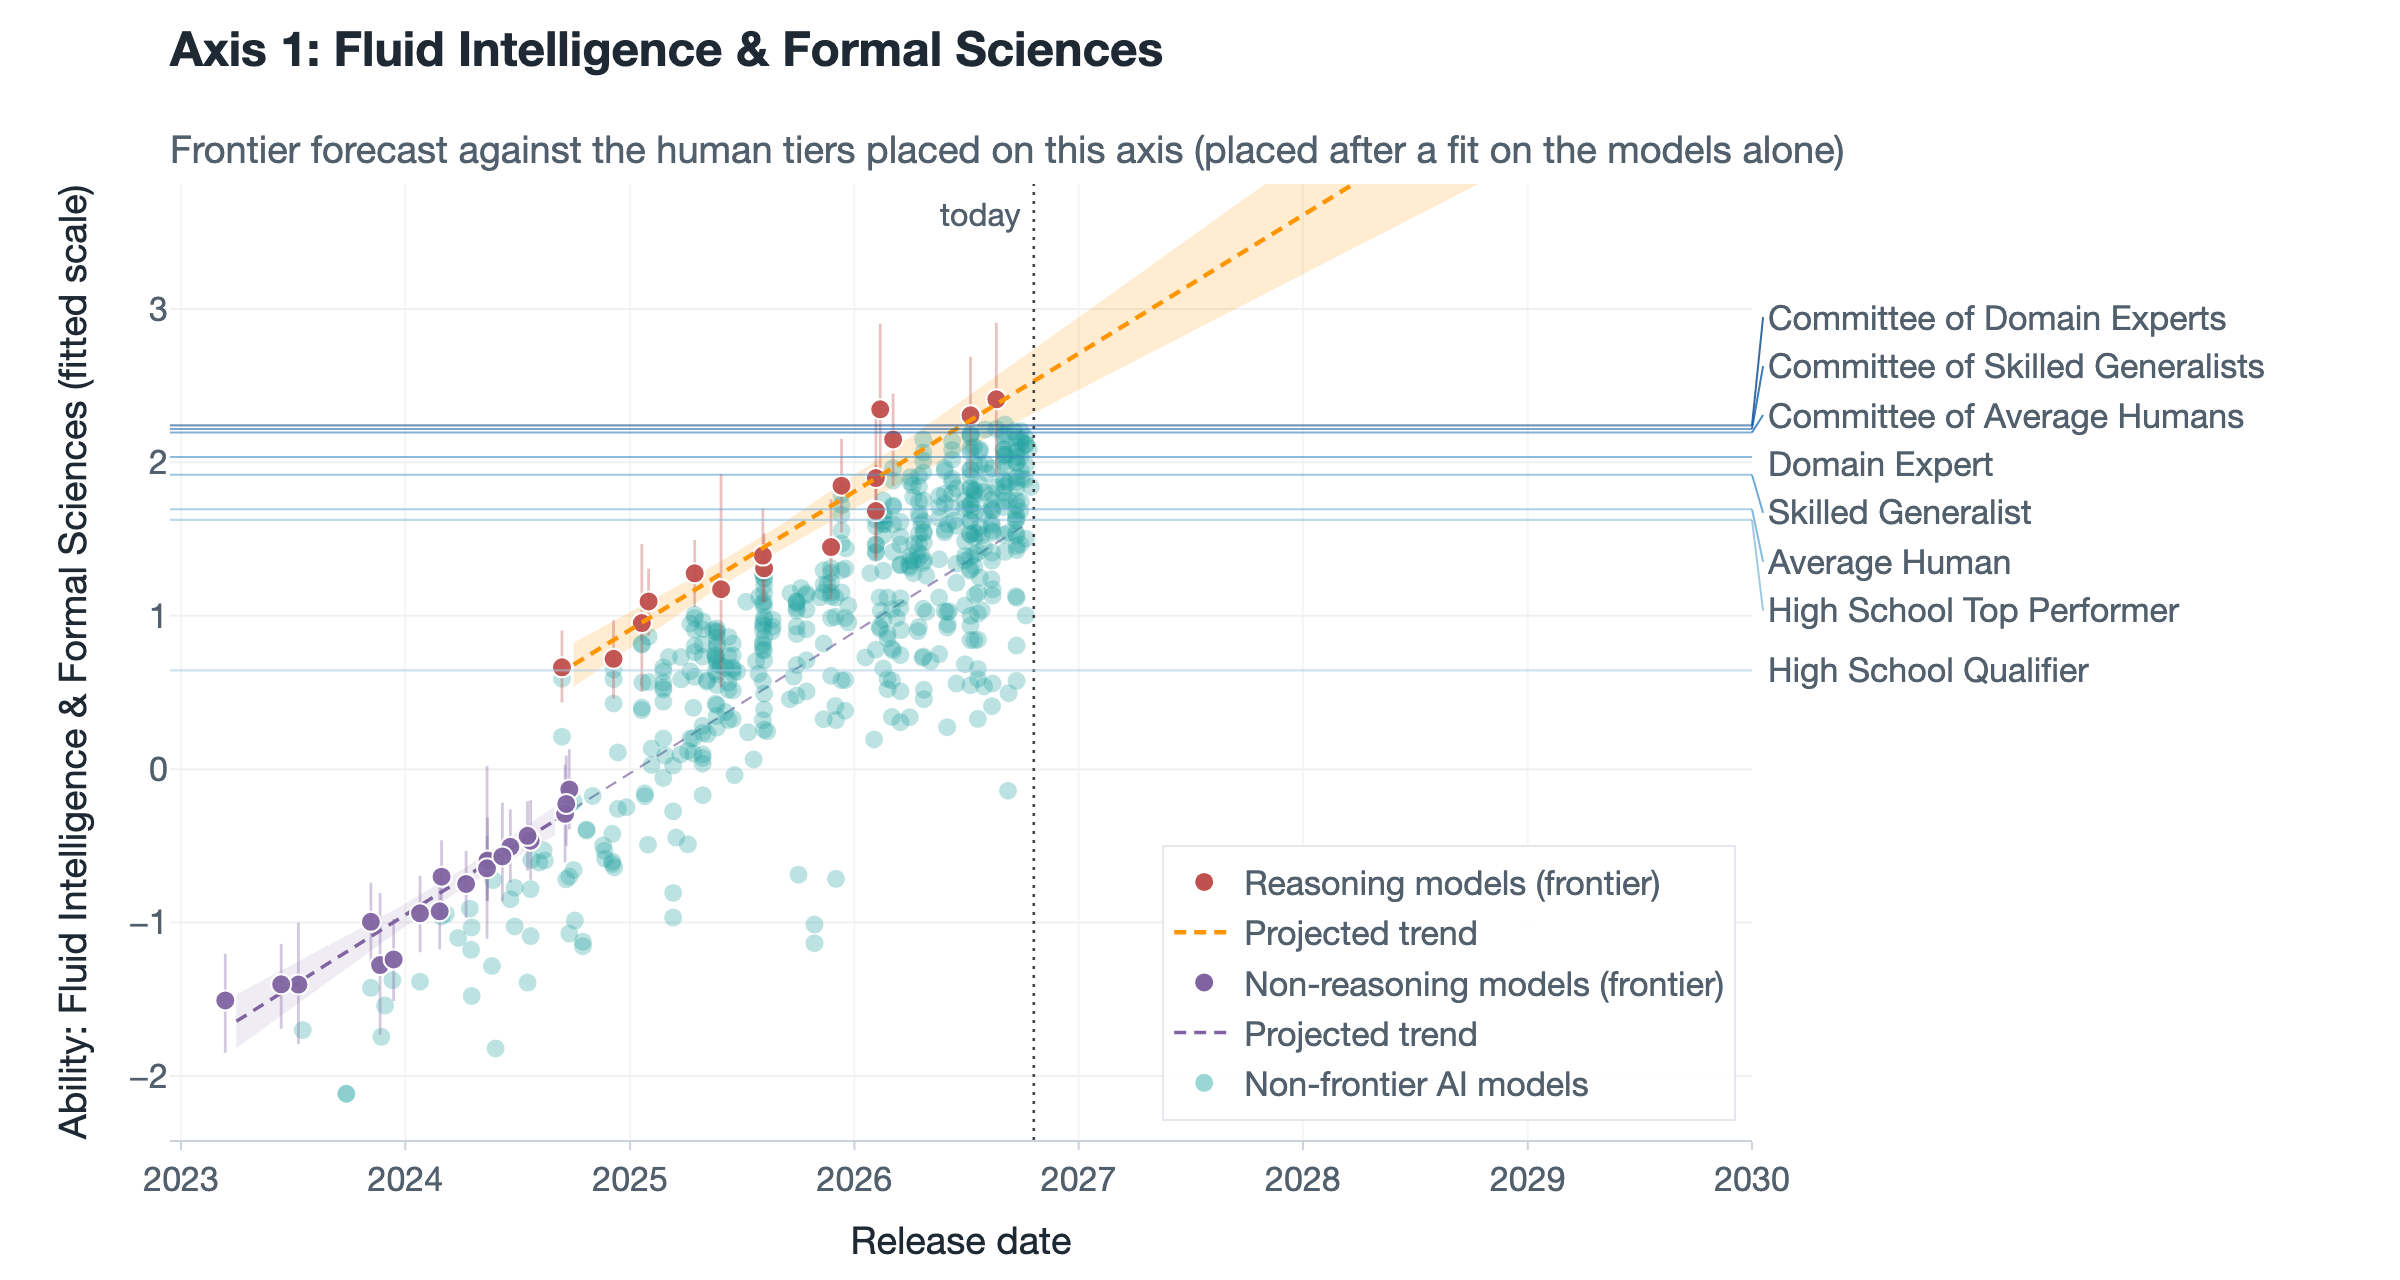
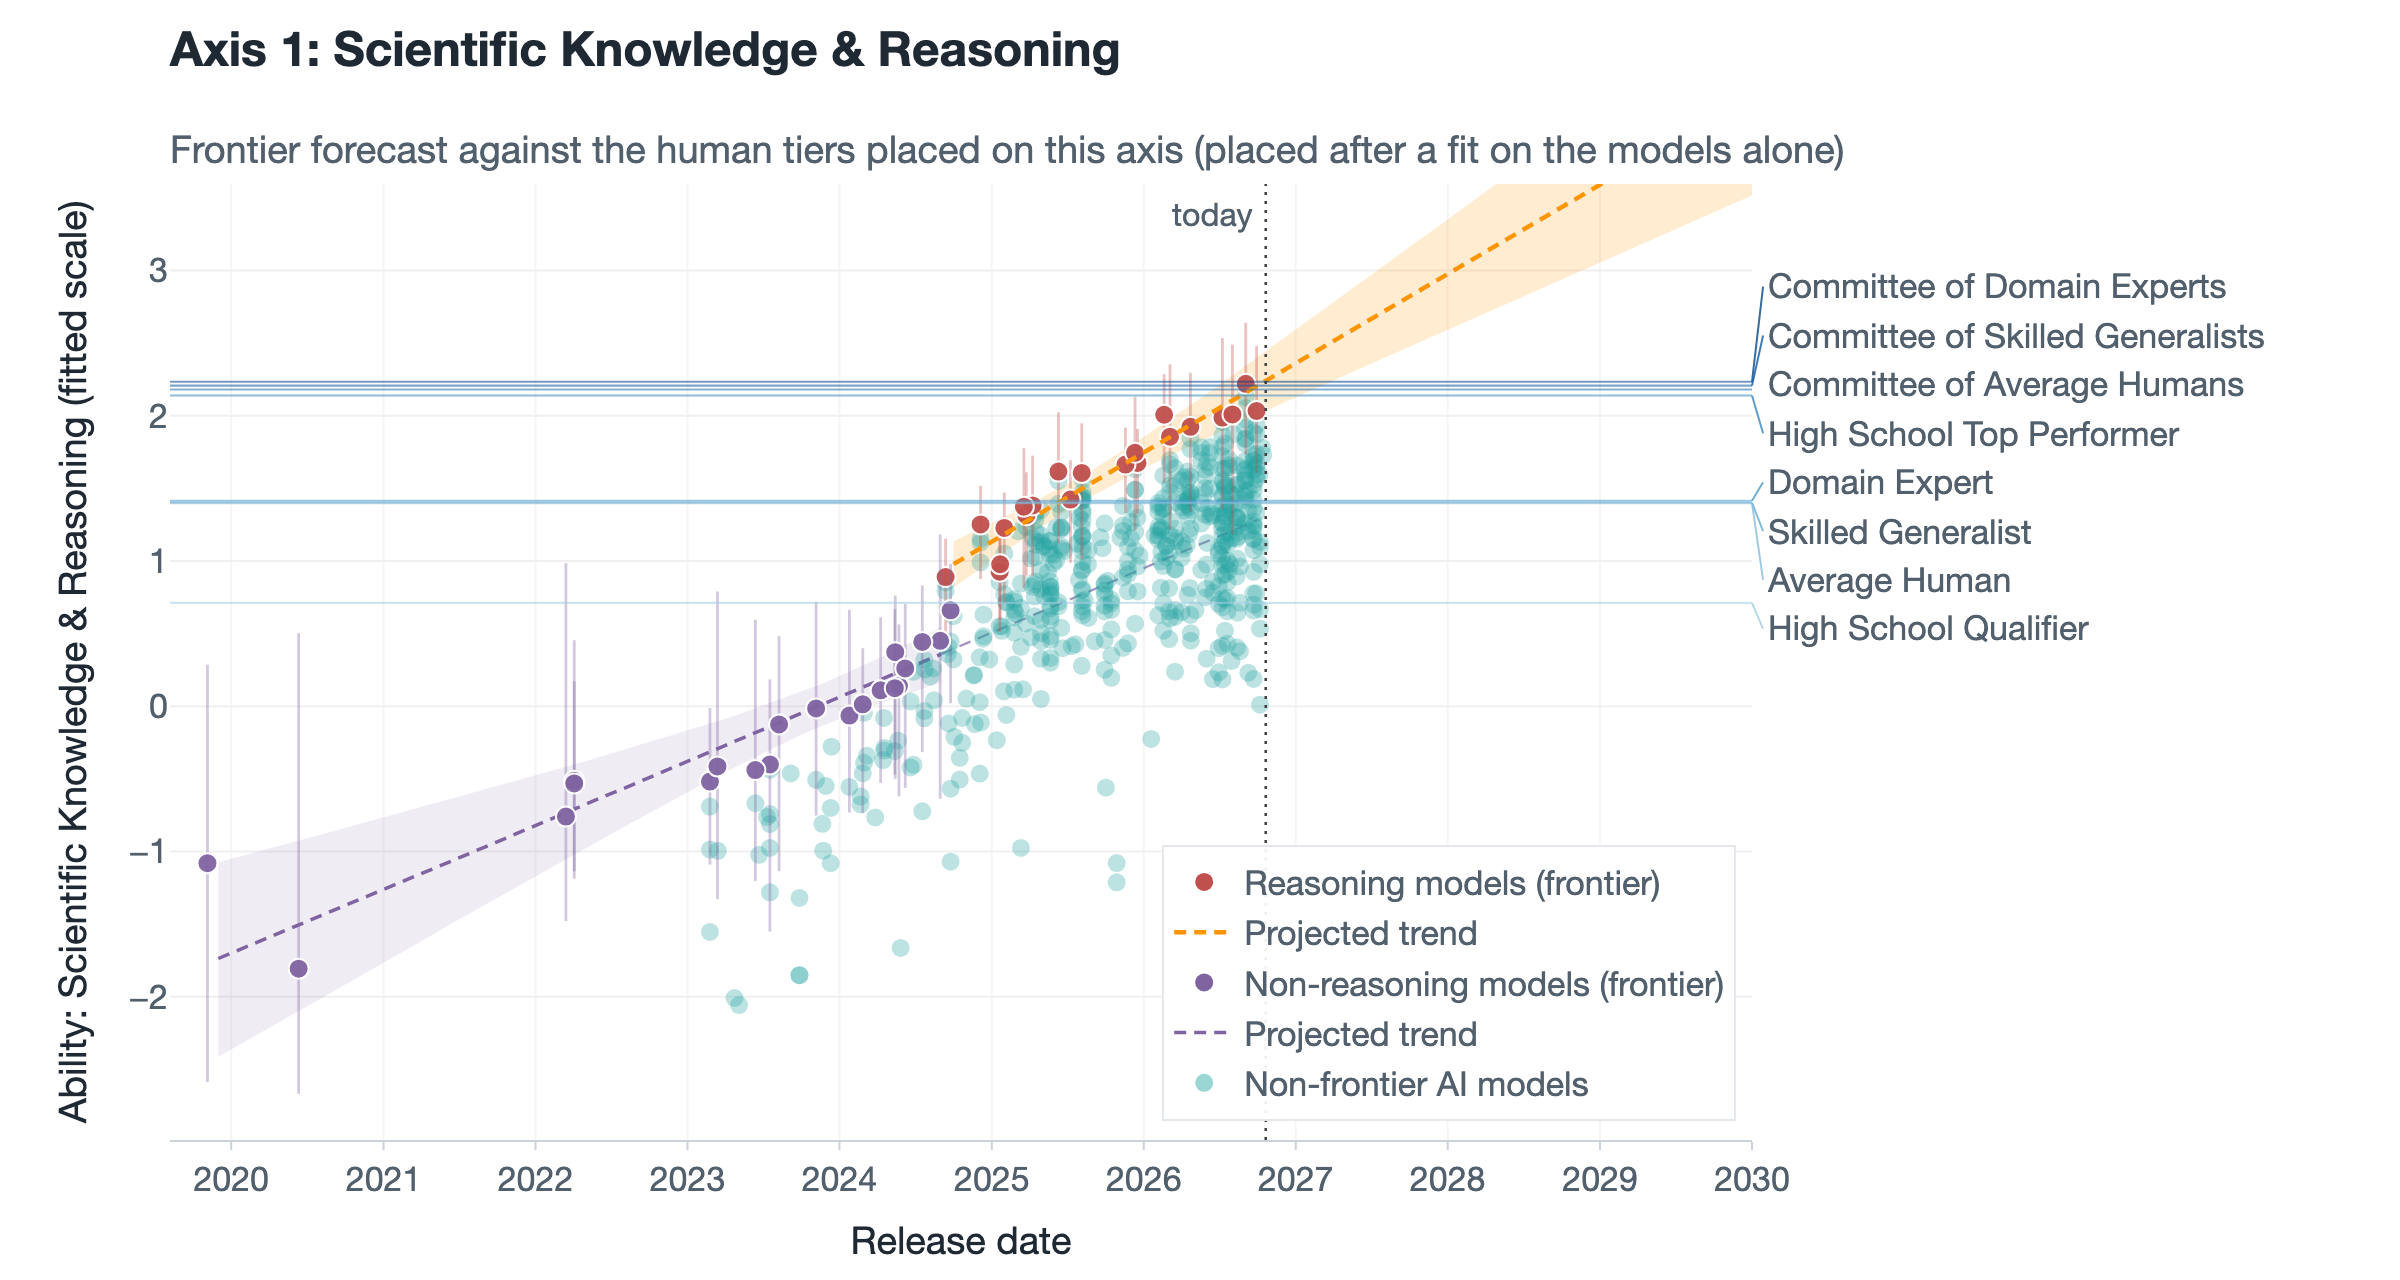
README: the ceiling flagship's results (axes, modes, human scores per axis, figures)

diff --git a/README.md b/README.md
@@ -12,28 +12,28 @@ This repository rebuilds the index in PyMC as a **K-axis compensatory 2PL Beta-M
 
 ## Current results: the K=4 flagship on the 2026-10-19 build
 
-**Since 2026-10-21 the flagship estimates each benchmark's ceiling** (see [Method](#method)). Its first 10 chains are in `5_outputs/data20261019/mirt_lineageprior_lineagebm/`. They fall into two modes: A, the primary mode the deliverables read (8 chains, best log-density; agentic and cyber apart, no science axis), and B, a secondary mode 23.8 nats lower (chains 3 and 9) with the previous flagship's structure (agentic and cyber together, a science axis), drawn on a frame and under names of its own (`secondary_mode/`); held-out prediction does not separate them (integrated LOO, +3 ± 8 nats for A). Mode A's axes are named (user, 2026-10-21): Scientific Knowledge & Reasoning, Agentic Capabilities & Programming, Cyber Capabilities, Commonsense & Factual Knowledge. A second seed (43) is running to bring the fit to the usual 20 chains. Until it is merged the results below are those of the same fit without ceilings, `mirt_lineageprior_lineagebm_noceiling/`; the comparison of the two is in the ceiling fit's `investigation/README.md`.
+**Since 2026-10-21 the flagship estimates each benchmark's ceiling** (see [Method](#method)): `5_outputs/data20261019/mirt_lineageprior_lineagebm/`. The fit without ceilings, the flagship until then, stays beside it as `mirt_lineageprior_lineagebm_noceiling/`, and the comparison of the two is in the ceiling fit's `investigation/README.md`.
 
-The axes carry no names of their own. They are named by hand after the benchmarks that load most on them, in the fit folder's `axis_names.json`, and a refit keeps a name only while its signature benchmarks still define the axis (see [docs/plots.md](docs/plots.md)). The current flagship's four:
+The axes carry no names of their own. They are named by hand after the benchmarks most collinear with them (the largest share of their loading variance), in the fit folder's `axis_names.json`, and a refit keeps a name only while its signature benchmarks still define the axis (see [docs/plots.md](docs/plots.md)). The current flagship's four (user, 2026-10-21):
 
-1. **Fluid Intelligence & Formal Sciences** (OTIS Mock AIME, ARC-AGI-2, MATH Level 5, with CritPt, MCP Atlas, DeepSWE)
-2. **Agentic & Cyber Capabilities** (GDPval, MirrorCode, CyberGym, with GBAEval, CyScenarioBench, FrontierSWE v2, Cybench)
-3. **Scientific Knowledge & Reasoning** (MMLU Biology, GSM8K, GPQA Main Biology, with WMDP, DeepResearch Bench, MMLU-Pro Biology)
-4. **Visual & Commonsense** (GeoBench, VPCT, OpenBookQA, with SpireClimb, VisualToolBench, SimpleQA Verified)
+1. **Scientific Knowledge & Reasoning** (OTIS Mock AIME, MMLU Chemistry, MATH Level 5, GPQA Main Chemistry and Biology, with WMDP, ARC-AGI and VPCT)
+2. **Agentic Capabilities & Programming** (OSWorld, SWE Atlas, APEX-Agents, DeepSWE, with PostTrainBench, FrontierCode, MCP Atlas)
+3. **Cyber Capabilities** (CyScenarioBench, CyberGym, GBAEval, with AISI Cyber Ranges, EBR-bench, Cybench)
+4. **Commonsense & Factual Knowledge** (OpenBookQA, ARC AI2, SimpleQA Verified, with HellaSwag, PIQA, SimpleBench, WinoGrande)
 
-On the 2026-10-19 data the agentic benchmarks load with the cyber ones, which the refresh brought eight new series of, and a fourth axis gathers visual and commonsense benchmarks, most of them outside the canonical index; the previous flagship had separate agentic and cyber axes. The four axes are distinct: their largest correlation is 0.55 (axes 1 and 2). Each benchmark is assigned to the axes by the share of its loading variance, and the axes are tracked across posterior draws by the collinearity of their loading columns (see [Reading the results](#reading-the-results)).
+With ceilings, the flattening of top scores no longer needs an axis of its own: mathematics and abstract reasoning share an axis with scientific knowledge, agentic and cyber benchmarks split apart, and the commonsense and factual benchmarks form the fourth axis. The four axes are distinct: their largest correlation is 0.67 (axes 1 and 2). Each benchmark is assigned to the axes by the share of its loading variance, and the axes are tracked across posterior draws by the collinearity of their loading columns (see [Reading the results](#reading-the-results)).
 
-The fit has 20 chains in two posterior modes (see [Limitations](#limitations)). The figures, the dashboard and the forecasts read mode A, 17 chains with the best log-density (the modes file's `selected_chains`, read by `analysis.best_mode_chains`). Mode B (chains 0, 1 and 18, 8.7 nats lower) keeps the previous flagship's four axes, a separate agentic axis among them, and is drawn beside it on a frame and under names of its own (`secondary_mode/`).
+The fit has 10 chains so far in two posterior modes; a second seed (43) is running to bring it to the usual 20 (see [Limitations](#limitations)). The figures, the dashboard and the forecasts read mode A, 8 chains with the best log-density (the modes file's `selected_chains`, read by `analysis.best_mode_chains`). Mode B (chains 3 and 9, 23.8 nats lower) keeps the structure of the fit without ceilings (agentic and cyber together, a science axis and a visual axis) and is drawn beside it on a frame and under names of its own (`secondary_mode/`); held-out prediction does not separate the two (integrated LOO, +3 ± 8 nats for A).
 
-Per axis, the frontier releases of reasoning models (red) and of the others (purple) each get their own fitted line; the reasoning models' line is projected to 2030 (orange, 80% band) against the human tiers (horizontal lines) placed on that axis. Abilities are on the fitted scale (the models' mean at 0 on each axis). A tier is drawn only where its own scores place it, on benchmarks that measure the axis, so the agentic & cyber and visual axes carry few tiers: no human baseline exists for most of their benchmarks.
+Per axis, the frontier releases of reasoning models (red) and of the others (purple) each get their own fitted line; the reasoning models' line is projected to 2030 (orange, 80% band) against the human tiers (horizontal lines) placed on that axis. Abilities are on the fitted scale (the models' mean at 0 on each axis). A tier is drawn only where its own scores place it, on benchmarks that measure the axis, so the agentic and cyber axes carry few tiers: no human baseline exists for most of their benchmarks.
 
-<img src="docs/figures/forecast_axis1.png" width="760" alt="Axis 1, Fluid Intelligence and Formal Sciences: frontier forecast against the human tiers placed on it, one line for reasoning models and one for the others">
+<img src="docs/figures/forecast_axis1.png" width="760" alt="Axis 1, Scientific Knowledge and Reasoning: frontier forecast against the human tiers placed on it, one line for reasoning models and one for the others">
 
-<img src="docs/figures/forecast_axis2.png" width="760" alt="Axis 2, Agentic and Cyber Capabilities: frontier forecast against the human tiers placed on it">
+<img src="docs/figures/forecast_axis2.png" width="760" alt="Axis 2, Agentic Capabilities and Programming: frontier forecast against the human tiers placed on it">
 
-<img src="docs/figures/forecast_axis3.png" width="760" alt="Axis 3, Scientific Knowledge and Reasoning: frontier forecast against the human tiers placed on it">
+<img src="docs/figures/forecast_axis3.png" width="760" alt="Axis 3, Cyber Capabilities: frontier forecast against the human tiers placed on it">
 
-<img src="docs/figures/forecast_axis4.png" width="760" alt="Axis 4, Visual and Commonsense: frontier forecast against the human tiers placed on it">
+<img src="docs/figures/forecast_axis4.png" width="760" alt="Axis 4, Commonsense and Factual Knowledge: frontier forecast against the human tiers placed on it">
 
 The 20 benchmarks with the largest share of each axis, their loadings (median and 95% interval) and that share:
 
@@ -41,7 +41,7 @@ The 20 benchmarks with the largest share of each axis, their loadings (median an
 
 `python docs/make_readme_figures.py` redraws these five figures from the current flagship trace, with the builders of the per-fit folders.
 
-The K=4 fit sees 5,487 observations, 887 models and 107 benchmarks, and the human tiers' 57 scores are placed on it afterwards; the canonical K=1 index, which also applies the curated exclusions and fits the tiers inside, 4,410 observations on 93 benchmarks. The post's fits saw 4,923 / 829 / 96 (tiers included) and 4,184 / 781 / 88.
+The K=4 fit sees 5,487 observations, 887 models and 107 benchmarks, and the human tiers' scores are placed on it afterwards (42 of them on the benchmarks that measure an axis); the canonical K=1 index, which also applies the curated exclusions and fits the tiers inside, 4,410 observations on 93 benchmarks. The post's fits saw 4,923 / 829 / 96 (tiers included) and 4,184 / 781 / 88.
 
 ## Setup
 
@@ -81,7 +81,7 @@ python 3_fit/fit.py --K 4 --lineage-prior --lineage-bm --chains 10 --seed 43 \
 
 Traces on disk keep every fifth draw (`--save-thin`, `config.SAVE_THIN`): convergence and the tables are computed on the full run, and the 16,000 saved draws pin every median and interval the figures show. While a nutpie fit runs, its draws stream to a zarr store beside the trace instead of accumulating in RAM (`--stream-draws`, on by default; `--no-stream-draws` restores the in-memory run), so the machine stays usable during a ten-hour fit; the store is deleted once the thinned trace is saved.
 
-Then find the posterior modes, place the human tiers, render the fit's figures (on the chains the deliverables read and, separately, the remaining ones when there are several modes; French versions under `fr/`, their SVG twins under `fr/svg/`), and rebuild the dashboard. The deliverables read the best mode by log-density, or the `selected_chains` of the modes file when it names a subset, checked against `4_diagnostics/integrated_loo.py` (the flagship's: chains 2, 5, 15, 17). `fit.py` writes the axis tables on every chain; `--write-tables` rewrites them on the chains the deliverables read, and `mirt_loadings.csv` among them is the frame every chain group's figures are put back on. A refit sets the old modes file aside, so a selection never outlives its chains:
+Then find the posterior modes, place the human tiers, render the fit's figures (on the chains the deliverables read and, separately, the remaining ones when there are several modes; French versions under `fr/`, their SVG twins under `fr/svg/`), and rebuild the dashboard. The deliverables read the best mode by log-density, or the `selected_chains` of the modes file when it names a subset, checked against `4_diagnostics/integrated_loo.py`. `fit.py` writes the axis tables on every chain; `--write-tables` rewrites them on the chains the deliverables read, and `mirt_loadings.csv` among them is the frame every chain group's figures are put back on. A refit sets the old modes file aside, so a selection never outlives its chains:
 
 ```bash
 python 4_diagnostics/diagnose_chains.py --trace <trace> --write-modes
@@ -173,9 +173,9 @@ Whether the chains agree on those axes is a different question, with its own num
 
 ## Limitations
 
-- **The K=4 posterior is multimodal.** Its 20 chains (2,500 draws after 2,000 tuning steps each; 10 with seed 42, then 10 with seed 43, merged with `fit.py --merge-chains`) fall into two modes: A, 17 chains, and B, 3 chains 8.7 nats below with another set of axes (agentic and cyber apart, no visual axis). The Gaussian prior of the previous flagship left five to seven modes, the best reached by 3 or 4 chains. The modes are not an extra axis but discrete ways, under non-negative loadings, of carving the same space.
-- **Choosing the mode.** PSIS-LOO cannot rank the modes: a large share of the observations get a Pareto k above 0.7. Integrating each score's own latent block out (`4_diagnostics/integrated_loo.py`, after Vehtari et al. 2016) ranked the previous flagship's modes, and now covers the skew-normal prior (importance sampling around the Laplace fit) and the ceilings: on the fit without ceilings it favours mode A by 33 ± 6 nats on the reliable scores. The deliverables read mode A, the best log-density and the mode most chains reach (user, 2026-10-20).
-- **Few human scores per axis.** The tiers rest on the scores of the benchmarks that measure each axis: 11 on fluid intelligence, 6 on agentic & cyber (OSWorld, The Agent Company, Cybench, EBR-bench, FrontierMath Erdos), 21 on scientific knowledge and 5 on the visual axis. Where a tier has several scores they can disagree beyond what any one ability explains (the Skilled Generalist at 0.40 on MATH Level 5 but 0.98 on ARC-AGI; the Domain Expert above every model on GPQA Main Chemistry and below most on WMDP), and a crossing date read on the trend can differ from the date the frontier first reached a score on the benchmark itself.
+- **The K=4 posterior is multimodal.** The first 10 chains of the ceiling flagship (2,000 draws after 2,000 tuning steps each, seed 42; 10 more with seed 43 are being merged in with `fit.py --merge-chains`) fall into two modes: A, 8 chains, and B, 2 chains 23.8 nats below with another set of axes. The fit without ceilings had 20 chains in two modes (17 and 3), and the Gaussian prior before it five to seven modes, the best reached by 3 or 4 chains. The modes are not an extra axis but discrete ways, under non-negative loadings, of carving the same space.
+- **Choosing the mode.** PSIS-LOO cannot rank the modes: a large share of the observations get a Pareto k above 0.7. Integrating each score's own latent block out (`4_diagnostics/integrated_loo.py`, after Vehtari et al. 2016, now covering the skew-normal prior by importance sampling around the Laplace fit, and the ceilings) favoured mode A by 33 ± 6 nats on the reliable scores of the fit without ceilings, and does not separate the ceiling fit's two modes (+3 ± 8). The deliverables read mode A, the best log-density and the mode most chains reach (user, 2026-10-20 and 21).
+- **Few human scores per axis.** The tiers rest on the scores of the benchmarks that measure each axis: 29 on scientific knowledge & reasoning, 3 on agentic capabilities (OSWorld, The Agent Company, METR Time Horizons), 1 on cyber (Cybench) and 9 on commonsense & factual knowledge. Where a tier has several scores they can disagree beyond what any one ability explains (the Skilled Generalist at 0.40 on MATH Level 5 but 0.98 on ARC-AGI; the Domain Expert above every model on GPQA Main Chemistry and below most on WMDP), and a crossing date read on the trend can differ from the date the frontier first reached a score on the benchmark itself.
 - **The unordered canonical index splits.** Without the human tier order (a sensitivity fit), the 2026-10-01 data let some chains settle in a second mode where MMLU, ARC (AI2) and GSM8K go flat and the Average Human rises above most tiers; it holds about e^-14 of the posterior mass. The ordered index every analysis reads converges.
 - **Data.** We need more of it and of better quality, especially for the human baselines. The 6% fill rate is what forced the extra assumptions above.
 - **Benchmark-level scores.** We fit those rather than item-level answers, so the MIRT assumptions are not fully respected. The Rosetta Stone paper and the ECI have the same problem.
